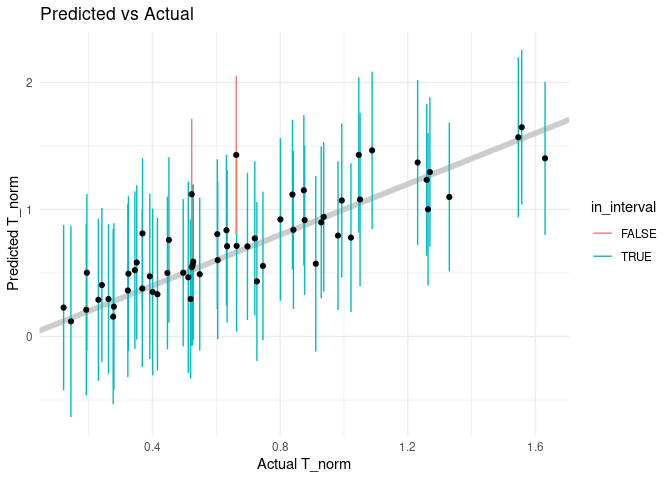
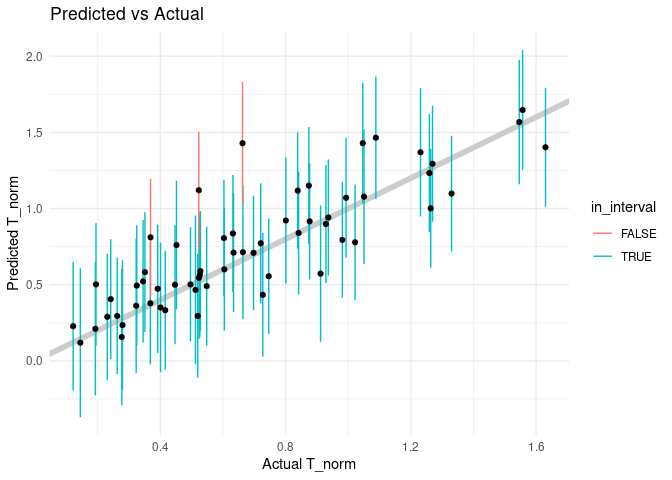
Updates to c11

diff --git a/challenges/c11-psaap-assignment.md b/challenges/c11-psaap-assignment.md
@@ -713,21 +713,21 @@ rsquare(fit_q6, df_validate)
 ``` r
 df_intervals_q6 <-
   df_train %>%
-  add_uncertainties(fit_q6, interval = "confidence", prefix = "ci") %>%
-  add_uncertainties(fit_q6, interval = "prediction", prefix = "pi")
+  add_uncertainties(fit_q6, interval = "confidence", prefix = "ci", level = 0.8) %>%
+  add_uncertainties(fit_q6, interval = "prediction", prefix = "pi", level = 0.8)
 
 df_design %>% 
-  add_uncertainties(fit_q6, interval = "prediction", prefix = "pi")
+  add_uncertainties(fit_q6, interval = "prediction", prefix = "pi", level = 0.8)
 ```
 
     ## # A tibble: 1 × 7
     ##       x     L     W   U_0 pi_fit pi_lwr pi_upr
     ##   <dbl> <dbl> <dbl> <dbl>  <dbl>  <dbl>  <dbl>
-    ## 1     1   0.2  0.04     1   1.92  0.929   2.92
+    ## 1     1   0.2  0.04     1   1.92   1.28   2.57
 
 ``` r
 df_validate %>%
-  add_uncertainties(fit_q6, interval = "prediction", prefix = "pi") %>% 
+  add_uncertainties(fit_q6, interval = "prediction", prefix = "pi", level = 0.8) %>% 
   select(T_norm, pi_lwr, pi_fit, pi_upr) %>% 
   mutate(in_interval = (T_norm <= pi_upr) & (T_norm >= pi_lwr)) %>% 
   group_by(in_interval) %>% 
@@ -738,16 +738,15 @@ df_validate %>%
     ## # Groups:   in_interval [2]
     ##   in_interval     n
     ##   <lgl>       <int>
-    ## 1 FALSE           2
-    ## 2 TRUE           58
+    ## 1 FALSE           3
+    ## 2 TRUE           57
 
 ``` r
 bind_rows(
   df_validate %>% 
-    add_uncertainties(fit_q6, interval = "prediction", prefix = "pi") %>% 
+    add_uncertainties(fit_q6, interval = "prediction", prefix = "pi", level = 0.8) %>% 
     select(T_norm, pi_lwr, pi_fit, pi_upr) %>% 
     mutate(in_interval = (T_norm <= pi_upr) & (T_norm >= pi_lwr))
-    # mutate(model = "q6"),
 ) %>% 
   
   ggplot(aes(T_norm, pi_fit)) +
@@ -757,8 +756,6 @@ bind_rows(
     width = 0
   ) +
   geom_point() +
-  # 
-  # facet_grid(~ model, labeller = label_both) +
   theme_minimal() +
   labs(
     title = "Predicted vs Actual",
@@ -785,12 +782,14 @@ bind_rows(
     task here.
 - What fraction of validation cases lie within the interval you predict?
   How does this compare with `pr_level`?
-  - 58 of 60 validation cases lie within the interval I predicted, which
-    is 0.967, greater than the `pr_level` of 0.8.
+  - 57 of 60 validation cases lie within the interval I predicted, which
+    is 0.95, greater than the `pr_level` of 0.8.
+  - Even when aiming for the `pr_level` of 0.8, I notice that it is
+    difficult to hit that number.
 - What interval for `T_norm` would you recommend the design team to plan
   around?
   - I would recommend the design team plan around an interval of
-    `[0.9289679, 2.917802]` for `T_norm` .
+    `[1.2788, 2.5679]` for `T_norm` .
 - Are there any other recommendations you would provide?
   - I would recommend that the client potentially change some of their
     controlled variables, as with their current set there is room for a
